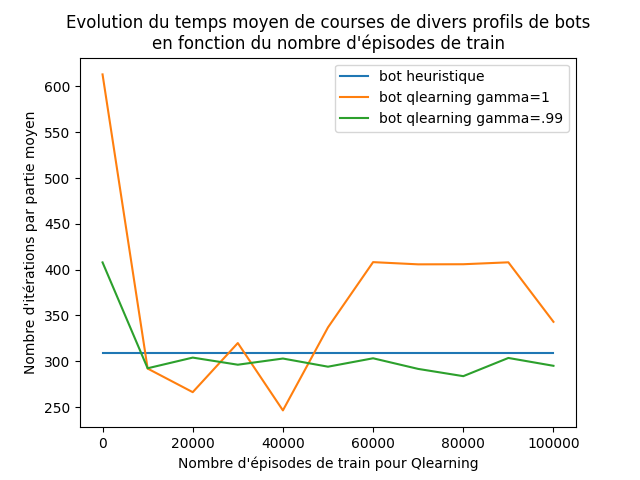
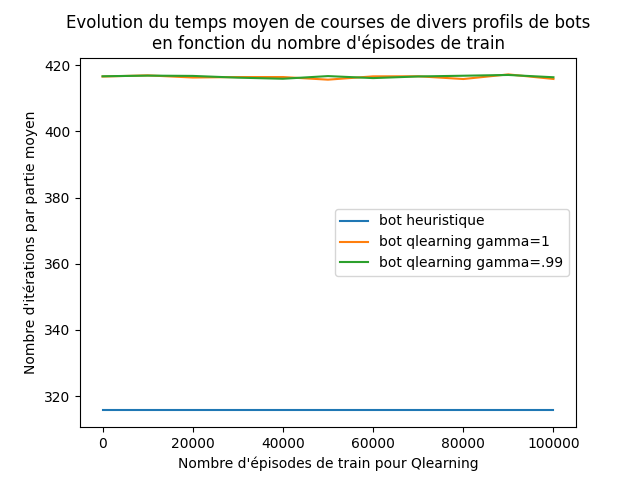
Tentatives d'amélioration de qlearning

diff --git a/Jeux/Mad-Pod-Racing/Training/Qlearning-graph.py b/Jeux/Mad-Pod-Racing/Training/Qlearning-graph.py
@@ -14,7 +14,7 @@ game_loop_terminal = game_module.game_loop_terminal
 generate_checkpoints = game_module.generate_checkpoints
 bot_heuristique = importlib.import_module("Jeux.Mad-Pod-Racing.Implementation.Bots.bot_heuristique").bot_heuristique
 bot_qlearning = importlib.import_module("Jeux.Mad-Pod-Racing.Implementation.Bots.bot_qlearning").bot_qlearning
-MadPodRacingQLearning = importlib.import_module("Mad-Pod-Racing-QLearning").MadPodRacingQLearning
+import mpr_training_env
 
 nb_intervalles = 10
 intervalles = np.arange(1, 100002, 100000 / nb_intervalles)
@@ -23,7 +23,7 @@ res_heuristique = []
 res_qlearning_1 = []
 res_qlearning_2 = []
 
-env = MadPodRacingQLearning()
+env = mpr_training_env.make((5, 5, 5, 5), (5, 3))
 
 player_threads = []
 player_queues = []

diff --git a/Jeux/Mad-Pod-Racing/Training/Mad-Pod-Racing-QLearning.py b/Jeux/Mad-Pod-Racing/Training/Mad-Pod-Racing-QLearning.py
@@ -9,7 +9,7 @@ if __name__ == "__main__":
     new_qtable = True
     nb_tests = 10000
 
-    env = mpr_training_env.make((5, 9, 5, 9), (9, 5))
+    env = mpr_training_env.make((5, 5, 5, 5), (5, 3))
 
     if new_qtable:
         q_table = q_learning(env, num_episodes=100000, gamma=1)
